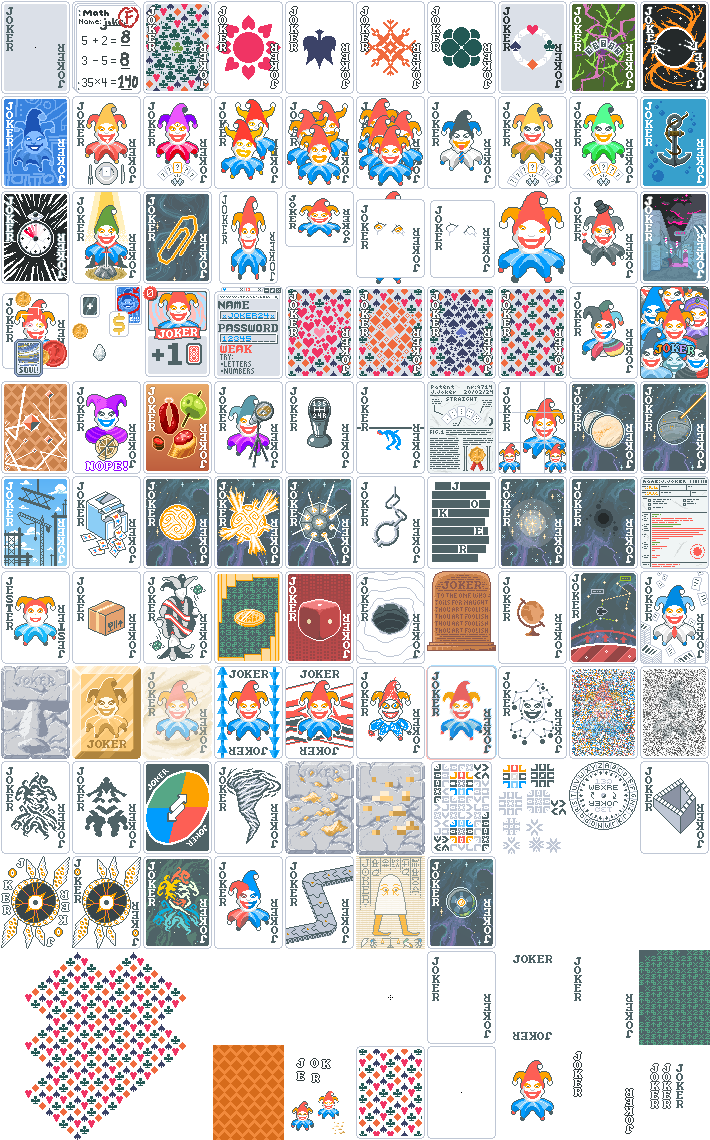
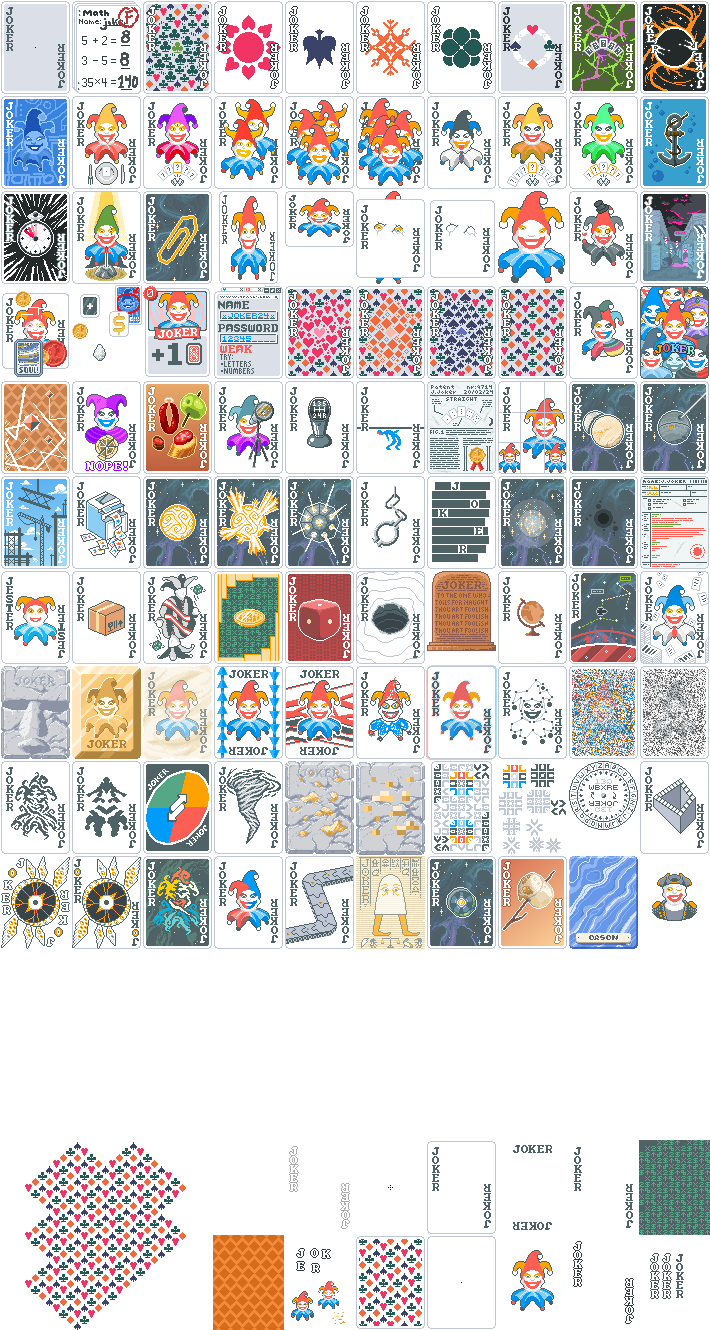
Change Black Market to legendary Orson

diff --git a/web/addjokers.js b/web/addjokers.js
@@ -307,14 +307,6 @@ let jokers = [
     rarity: "Uncommon"
   },
   {
-    name: "Black Market",
-    text: [
-      "Each card {C:attention}sold{} is banned and this gains {C:mult}+1{} Mult"
-    ],
-    image_url: "img/j/black_market.png",
-    rarity: "Rare"
-  },
-  {
     name: "Anchor",
     text: [
       "{C:spades}Spade{} cards start at the bottom of the deck",
@@ -718,6 +710,17 @@ let jokers = [
     ],
     image_url: "img/j/conveyor_belt.png",
     rarity: "Uncommon"
+  },
+  {
+    name: "Orson",
+    text: [
+        "{C:red}Bans{} sold cards",
+        "{C:inactive}(Banned cards can't appear)",
+    ],
+    image_url: "img/j/orson_bg.png",
+    soul_url: "img/j/orson_soul.png",
+    rarity: "Legendary",
+    soul: true
   },
 
   // {
